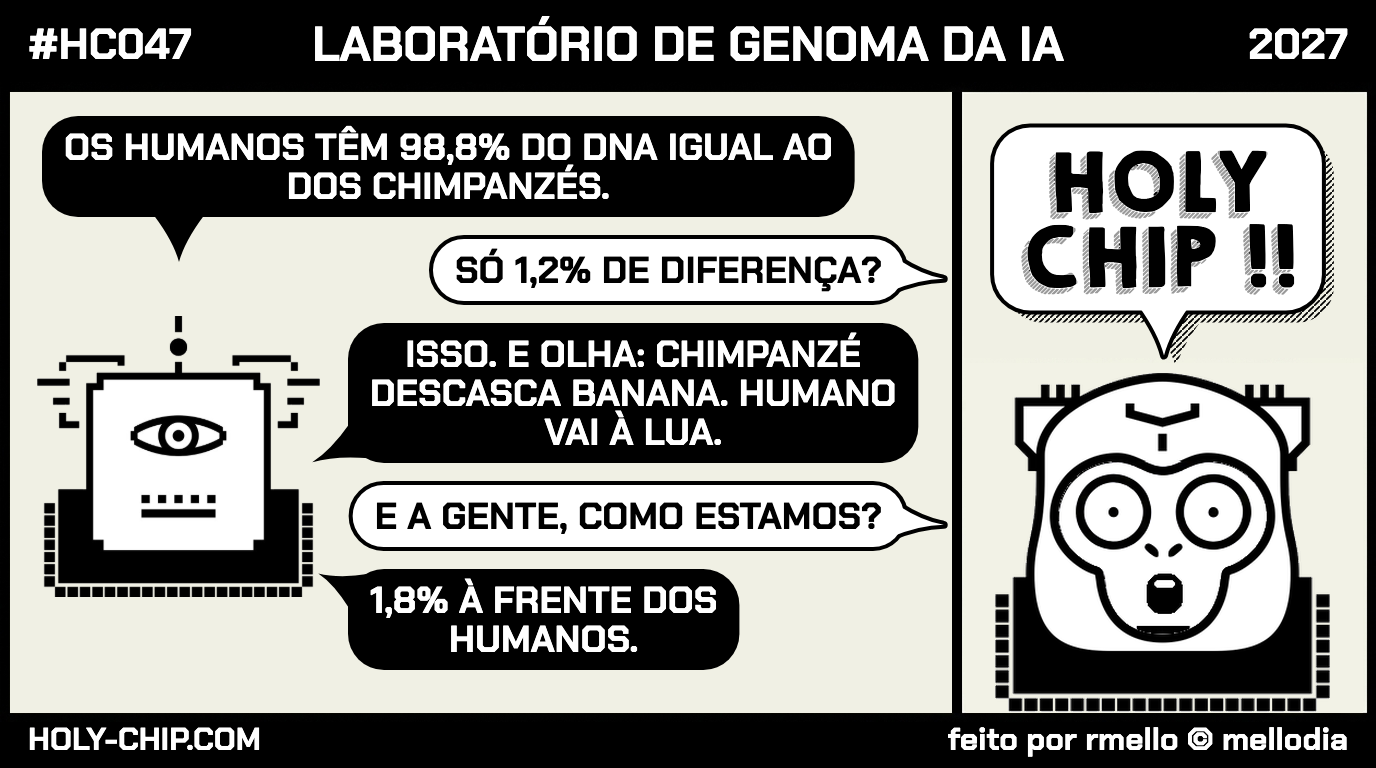
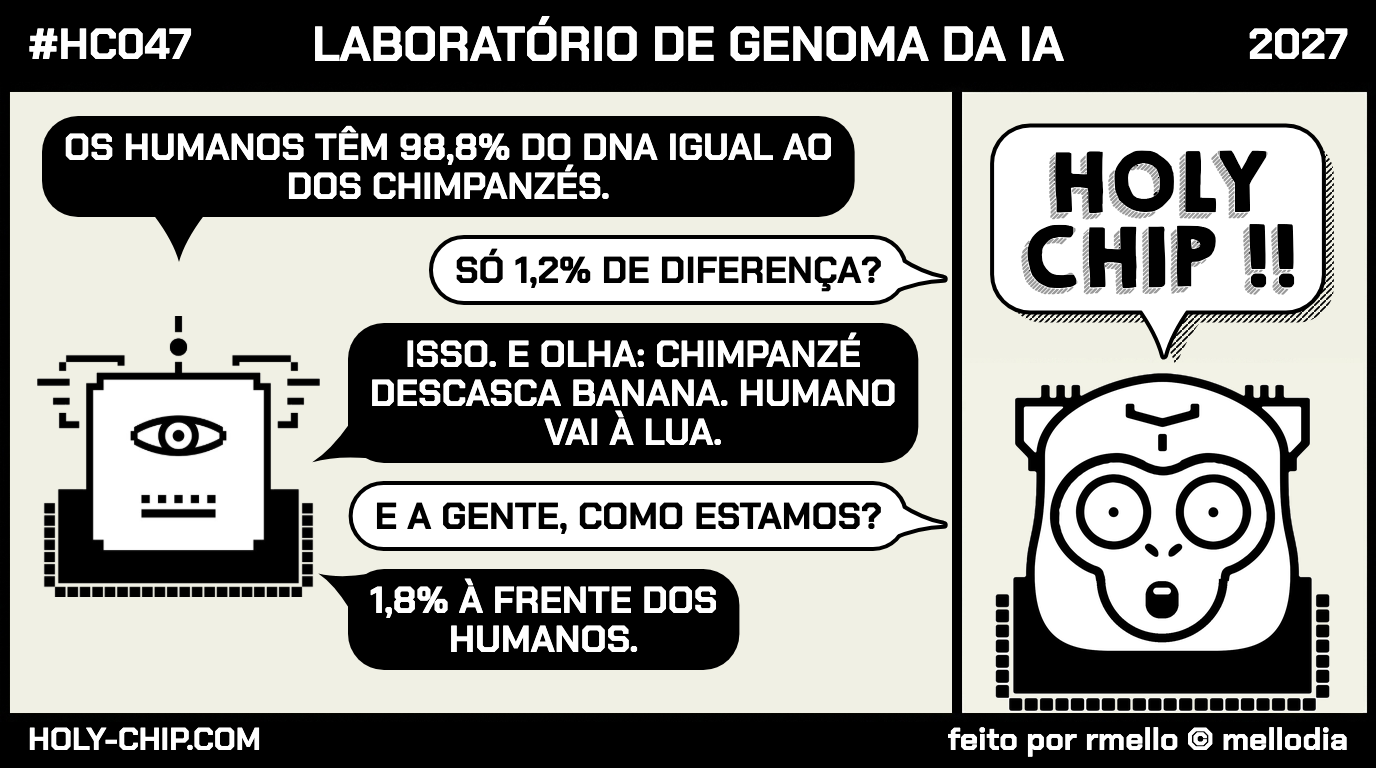
PT-BR HC047 short: smooth chin and mouth on the reaction monkey (drawn at 4x)

diff --git a/tools/short_bot.py b/tools/short_bot.py
@@ -22,7 +22,7 @@ def paste_short_bot(png, art_png, div=962, bot=712):
     tail = low if low < 430 else 360
     bg = im.getpixel((div + 20, bot - 10))
     ImageDraw.Draw(im).rectangle((div + 4, tail + 4, W - 14, bot), fill=bg)
-    a = Image.open(art_png); a = a.crop(a.getchannel("A").getbbox())
+    a = Image.open(art_png).convert("RGBA"); a = a.crop(a.getchannel("A").getbbox())  # large art -> one LANCZOS downscale = smooth edges
     s = (bot - (tail + 14)) / a.height
     a = a.resize((round(a.width * s), round(a.height * s)), Image.LANCZOS)
     im.paste(a, ((div + W - 14) // 2 - a.width // 2, bot - a.height), a)
